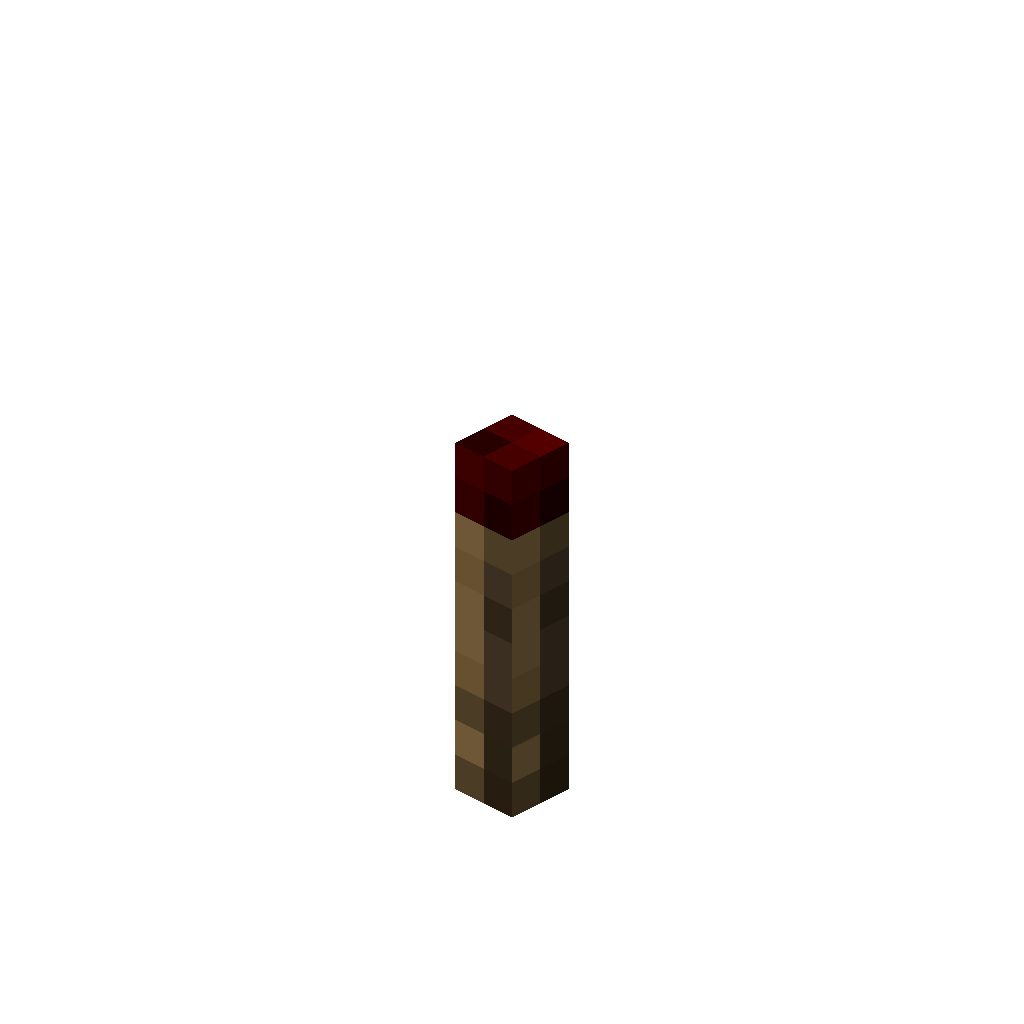
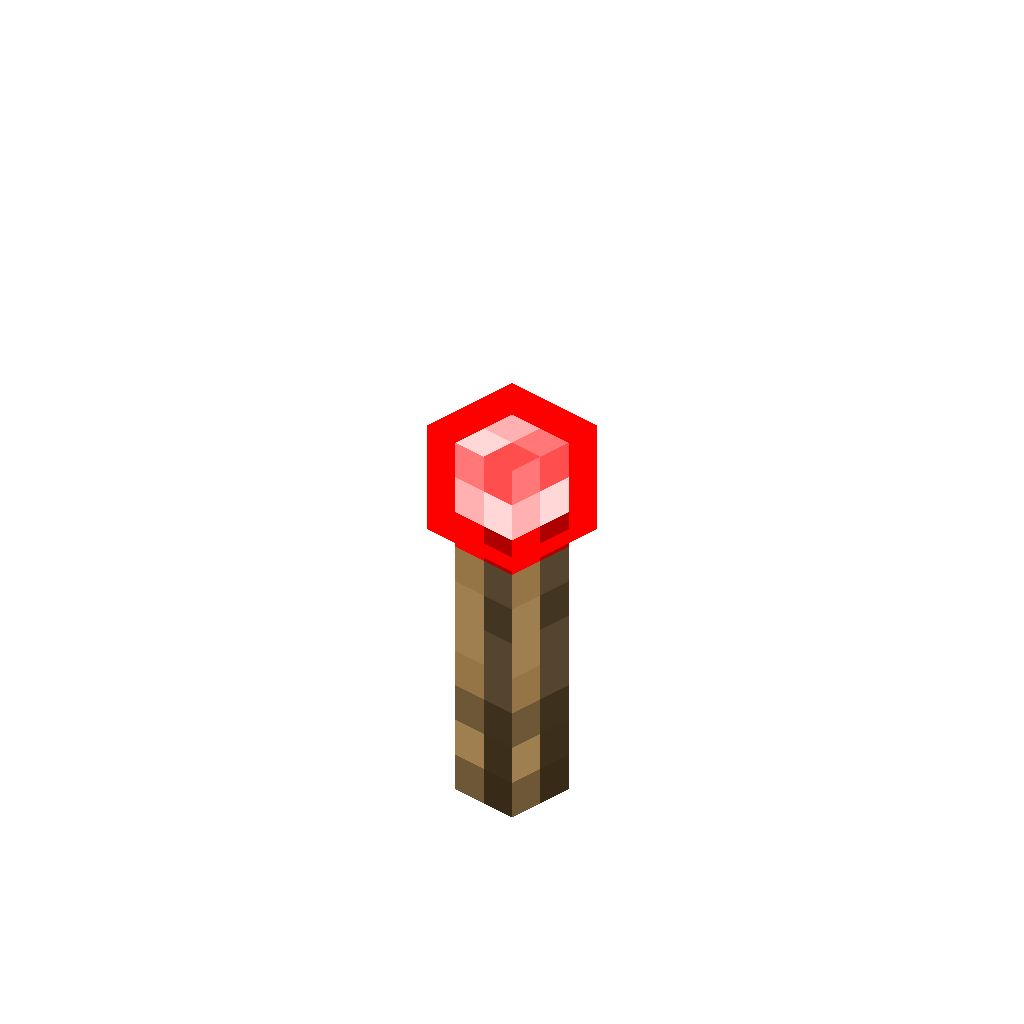
redstone torch lit default

Changed region(s): [[0.4062, 0.375, 0.5938, 0.8125]]

diff --git a/blockmodel-utils.js b/blockmodel-utils.js
@@ -93,7 +93,7 @@ const UNIQUE_DEFAULT_BLOCKSTATES = {
   "*_amethyst_bud|amethyst_cluster|barrel|end_rod|*lightning_rod|*piston*|*shulker_box": {
     facing: "up"
   },
-  "*campfire": {
+  "*campfire|redstone_torch|redstone_wall_torch": {
     lit: true
   },
   "glow_lichen|sculk_vein|resin_clump": {
